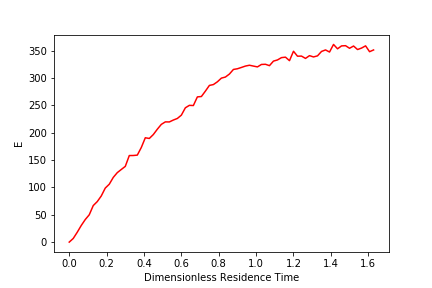
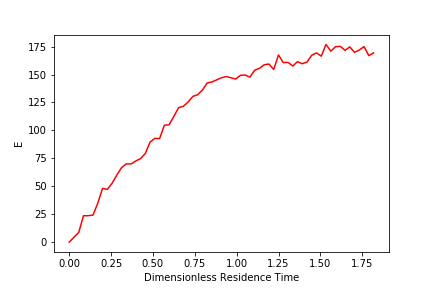
mistake with reactor volume

diff --git a/Lab5/team10_lab5_new.md b/Lab5/team10_lab5_new.md
@@ -108,12 +108,46 @@ While it is difficult to compare the values of N and Pe since only data collecte
 
 #### Report the values of t^{\star} at F = 0.1 for each of your experiments. Do they meet your expectations? ####
 
+For each of the experiments, the $t^{star}$ at F = 0.1 was also calculated. For the first experiment, $t^{star}$ = 10 seconds based on the calculated exit age E and cumulative exit age F.
+
+![CMFR1E](https://raw.githubusercontent.com/lw583/CEE4530/master/Lab5/CMFR1_CMFR_E.png)
+Figure 6: Plot of exit age E against dimensionless residence time for the first reactor experiment.
+
+![CMFR1F](https://raw.githubusercontent.com/lw583/CEE4530/master/Lab5/CMFR1_CMFR_F.png)
+Figure 7: Plot of cumulative exit age F against dimensionless residence time for the first reactor experiment.
+
+For the second experiment with one baffle, $t^{star}$ = 15 seconds based on the calculated exit age E and cumulative exit age F.
+
+![CMFR2E](https://raw.githubusercontent.com/lw583/CEE4530/master/Lab5/CMFR3_CMFR_E.png)
+Figure 8: Plot of exit age E against dimensionless residence time for the second reactor experiment.
+
+![CMFR2F](https://raw.githubusercontent.com/lw583/CEE4530/master/Lab5/CMFR3_CMFR_F.png)
+Figure 9: Plot of cumulative exit age F against dimensionless residence time for the first reactor experiment.
+
+For the third experiment with two identical baffles, $t^{star}$ = 15 seconds based on the calculated exit age E and cumulative exit age F. This was unexpected as there was no significant change compared to the second experiment. Perhaps one issue is because data was taken in increments that are two big, and the point at which F = 0.1 is crossed would be more accurately defined.
+
+![CMFR3E](https://raw.githubusercontent.com/lw583/CEE4530/master/Lab5/CMFR2_CMFR_E.png)
+Figure 10: Plot of exit age E against dimensionless residence time for the second reactor experiment.
+
+![CMFR3F](https://raw.githubusercontent.com/lw583/CEE4530/master/Lab5/CMFR2_CMFR_F.png)
+Figure 9: Plot of cumulative exit age F against dimensionless residence time for the first reactor experiment.
+
+For the third experiment with two identical baffles, $t^{star}$ = 15 seconds based on the calculated exit age E and cumulative exit age F. This was unexpected as there was no significant change compared to the second experiment. Perhaps one issue is because data was taken in increments that are two big, and the point at which F = 0.1 is crossed would be more accurately defined.
+
+![CMFR3E](https://raw.githubusercontent.com/lw583/CEE4530/master/Lab5/CMFR2_CMFR_E.png)
+Figure 10: Plot of exit age E against dimensionless residence time for the second reactor experiment.
+
+![CMFR3F](https://raw.githubusercontent.com/lw583/CEE4530/master/Lab5/CMFR2_CMFR_F.png)
+Figure 9: Plot of cumulative exit age F against dimensionless residence time for the first reactor experiment.
+
 10 seconds
 15 seconds
 15 seconds
 35 seconds
 
-Explanation, attach graphs
+Explanation...
+
+# reactor volume should be changed!!
 ...
 
 In our reactor, there was no evidence of "short circuiting". The influent was mixed throughout most of the container before flowing out as effluent as different parts of the flow reactor was seen to turn red visibly. There was no evidence of red dye seeping between the wall of the reactor and the baffle instead of flowing through the orifices. This was one of the reason we decided to use red dye as our contaminant.
@@ -216,13 +250,13 @@ plt.show()
 
 CMFR_2_path = 'https://raw.githubusercontent.com/lw583/CEE4530/master/Lab5/lab5_cmfr_2.xls'
 CMFR_2_firstrow = epa.notes(CMFR_2_path).last_valid_index() + 1
-CMFR_2_firstrow = CMFR_2_firstrow + 10
+CMFR_2_firstrow = CMFR_2_firstrow + 22
 CMFR_2_time_data = (epa.column_of_time(CMFR_2_path,CMFR_2_firstrow,-1)).to(u.s)
 CMFR_2_concentration_data = epa.column_of_data(CMFR_2_path,CMFR_2_firstrow,1,-1,'mg/L')
 
 CMFR_2_concentration_data = CMFR_2_concentration_data - CMFR_2_concentration_data[0]
 CMFR_2_mass = 3592 * u.g - 1168 * u.g
-CMFR_2_V = CMFR_1_mass/rho
+CMFR_2_V = (CMFR_2_mass/rho)/3
 CMFR_2_Q = 380 * u.mL/u.min
 CMFR_2_theta_hydraulic = (CMFR_2_V/CMFR_2_Q).to(u.s)
 CMFR_2_C_bar_guess = np.max(CMFR_2_concentration_data)/2
@@ -271,7 +305,7 @@ for i in range (CMFR_2_E.size):
   else:
     print("F is over 0.1 at " +str(CMFR_2_dimensionless_time[i]))
 
-CMFR_2_tstar = (0.06431*CMFR_1_theta_hydraulic).to(u.seconds)
+CMFR_2_tstar = (0.1173*CMFR_2_theta_hydraulic).to(u.seconds)
 CMFR_2_tstar
 plt.plot(CMFR_2_dimensionless_time.to(u.dimensionless), CMFR_2_F,'r')
 plt.xlabel(r'Dimensionless Residence Time')
@@ -281,13 +315,13 @@ plt.show()
 
 CMFR_3_path = 'https://raw.githubusercontent.com/lw583/CEE4530/master/Lab5/lab5_cmfr_3.xls'
 CMFR_3_firstrow = epa.notes(CMFR_3_path).last_valid_index() + 1
-CMFR_3_firstrow = CMFR_3_firstrow + 10
+CMFR_3_firstrow = CMFR_3_firstrow + 22
 CMFR_3_time_data = (epa.column_of_time(CMFR_3_path,CMFR_3_firstrow,-1)).to(u.s)
 CMFR_3_concentration_data = epa.column_of_data(CMFR_3_path,CMFR_3_firstrow,1,-1,'mg/L')
 
 CMFR_3_concentration_data = CMFR_3_concentration_data - CMFR_3_concentration_data[0]
 CMFR_3_mass = 3490 * u.g - 1267 * u.g
-CMFR_3_V = CMFR_1_mass/rho
+CMFR_3_V = (CMFR_3_mass/rho)/2
 CMFR_3_Q = 380 * u.mL/u.min
 CMFR_3_theta_hydraulic = (CMFR_3_V/CMFR_3_Q).to(u.s)
 CMFR_3_C_bar_guess = np.max(CMFR_3_concentration_data)/2
@@ -336,7 +370,7 @@ for i in range (CMFR_3_E.size):
   else:
     print("F is over 0.1 at " +str(CMFR_3_dimensionless_time[i]))
 
-CMFR_3_tstar = (0.06431*CMFR_3_theta_hydraulic).to(u.seconds)
+CMFR_3_tstar = (0.0852*CMFR_3_theta_hydraulic).to(u.seconds)
 CMFR_3_tstar
 plt.plot(CMFR_3_dimensionless_time.to(u.dimensionless), CMFR_3_F,'r')
 plt.xlabel(r'Dimensionless Residence Time')
@@ -352,7 +386,7 @@ CMFR_4_concentration_data = epa.column_of_data(CMFR_4_path,CMFR_4_firstrow,1,-1,
 
 CMFR_4_concentration_data = CMFR_4_concentration_data - CMFR_4_concentration_data[0]
 CMFR_4_mass = 2298 * u.g - 1371 * u.g
-CMFR_4_V = CMFR_1_mass/rho
+CMFR_4_V = (CMFR_4_mass/rho)/4
 CMFR_4_Q = 380 * u.mL/u.min
 CMFR_4_theta_hydraulic = (CMFR_4_V/CMFR_4_Q).to(u.s)
 CMFR_4_C_bar_guess = np.max(CMFR_4_concentration_data)/2
@@ -401,12 +435,12 @@ for i in range (CMFR_4_E.size):
   else:
     print("F is over 0.1 at " +str(CMFR_4_dimensionless_time[i]))
 
-CMFR_3_tstar = (0.1501*CMFR_3_theta_hydraulic).to(u.seconds)
-CMFR_3_tstar
-plt.plot(CMFR_3_dimensionless_time.to(u.dimensionless), CMFR_3_F,'r')
+CMFR_4_tstar = (0.9537*CMFR_4_theta_hydraulic).to(u.seconds)
+CMFR_4_tstar
+plt.plot(CMFR_4_dimensionless_time.to(u.dimensionless), CMFR_4_F,'r')
 plt.xlabel(r'Dimensionless Residence Time')
 plt.ylabel(r'F')
-plt.savefig('Lab5/CMFR3_CMFR_F.png')
+plt.savefig('Lab5/CMFR4_CMFR_F.png')
 plt.show()
 ```
 
